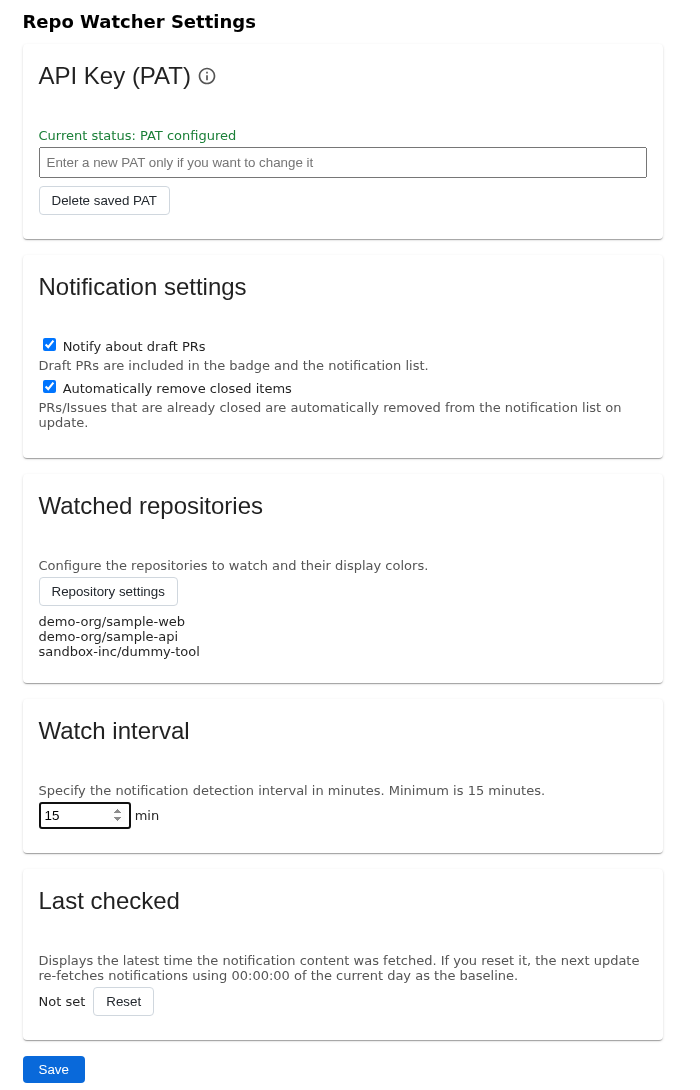
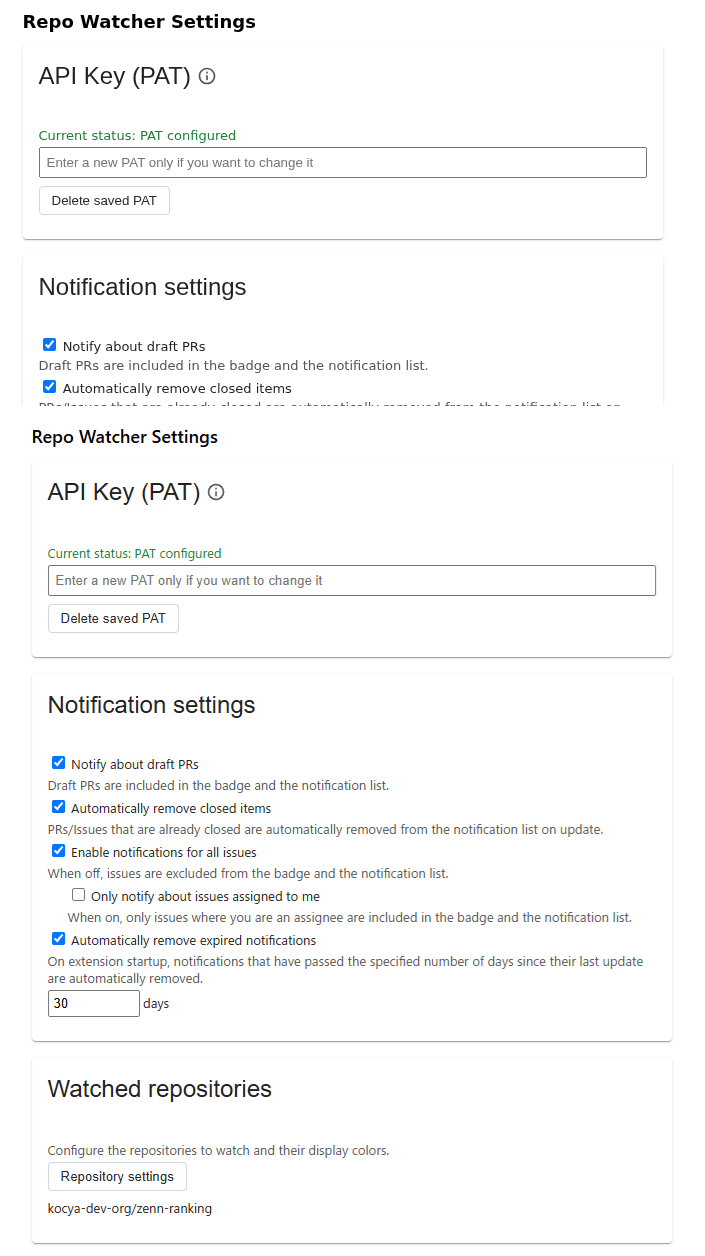
docs: マニュアルに通知設定の詳細を追加

diff --git a/docs/en/index.md b/docs/en/index.md
@@ -4,17 +4,17 @@
 
 ## What this extension does
 
-Repo Watcher is a Chrome extension that monitors Issues and Pull Requests in configured GitHub repositories.
+Repo Watcher is a Chrome extension that monitors Issues and Pull Requests in the repositories you specify.
 
-It primarily detects the following notifications:
+You can mainly check the following notifications:
 
 - New Issue / Pull Request
 - Mentions of you
-- New comments on Issues / Pull Requests where you are the assignee
+- New comments on issues or pull requests where you are the assignee
 
-Notifications are shown via the extension icon badge and in the popup window.
+Notifications appear in the extension icon badge and on the popup screen.
 
-![Image: Repo Watcher icon and unread badge on the Chrome toolbar](./assets/01_toolbar_icon_badge.png)
+![Image: Repo Watcher icon and unread count badge on the Chrome toolbar](./assets/01_toolbar_icon_badge.png)
 
 ## Prerequisites
 
@@ -22,87 +22,102 @@ Notifications are shown via the extension icon badge and in the popup window.
 - GitHub Personal Access Token (PAT)
 - The owner/repository names of the repositories you want to watch
 
-A fine-grained PAT is recommended. You can create a PAT in GitHub's `Settings` > `Developer Settings`. Required permissions:
+Create a PAT from GitHub's Settings > Developer settings. A fine-grained PAT is recommended.
+When you choose All repositories or Only select repositories, the required permissions are:
 
 - Metadata: Read-only
 - Issues: Read-only
 - Pull requests: Read-only
-- Pull requests: Read-only
 
 ![](./assets/generate_token.png)
+
+> [!note]
+>
+> - If you want to monitor Internal/Private repositories under an organization, set the resource owner to the organization.
+> - If you create a classic PAT, grant the repo permission.
 
 ## Initial setup
 
 After loading the extension, open the settings page.
 
-How to open:
+How to open it:
 
 - Click the extension icon
 - Open the popup menu in the top-right
-- Select "Open Settings"
+- Select Open Settings
 
-![Image: Select "Open Settings" from the popup menu](./assets/02_popup_menu_open_settings.png)
+![Image: Popup menu with Open Settings selected](./assets/02_popup_menu_open_settings.png)
 
-![Image: Options page (Open Settings)](./assets/03_options_page.png)
+![Image: Open Settings screen](./assets/03_options_page.png)
 
-### API Key (PAT)
+### API key (PAT)
 
-1.  Enter your GitHub PAT in the "API Key (PAT)" field.
-2.  Press "Save".
+1. Enter your GitHub PAT in the API Key (PAT) field.
+2. Click Save.
 
 The PAT is encrypted and stored in the extension's local storage.
 
 ### Notification settings
 
-The following two settings are available:
+The following settings are available:
 
-- "Notify about draft PRs": Draft PRs are included in the badge and the notification list when enabled.
-- "Automatically remove closed items": PRs/Issues that are already closed are automatically removed from the notification list on update when enabled.
+- Notify about draft PRs
+  When enabled, draft PRs are also included in the badge and the notification list.
+- Automatically remove closed items
+  When enabled, PRs / Issues that are already closed are automatically removed from the notification list during updates.
+- Enable notifications for all issues
+  When disabled, issue changes are not included in the badge or the notification list.
+  The Issue tab remains hidden.
+- Only notify about issues assigned to me
+  When enabled, only issues where you are the assignee are included in the badge and the notification list.
+  This option is available only when "Enable notifications for all issues" is turned on.
+- Automatically remove expired notifications
+  When the extension starts, notifications whose last update is older than the configured number of days are automatically removed.
 
 ### Watched repositories
 
-1.  Click "Repository settings".
-2.  Add repositories to watch using the owner/repository format.
-3.  Optionally set a display color for each repository.
-4.  Click "OK".
-5.  Finally, press "Save" on the settings page.
+1. Click Repository settings.
+2. Add repositories to watch in owner/repository format.
+3. Set a display color if needed.
+4. Click OK.
+5. Finally, click Save on the settings page.
 
-The chosen display color is shown as a left stripe on each notification in the popup.
+The display color is used as the left strip color for notifications in the popup.
 
-![Image: Repository settings dialog where you enter owner/repository and set display color](./assets/04_repository_settings_dialog.png)
+![Image: Repository settings dialog where you enter the owner/repository and display color](./assets/04_repository_settings_dialog.png)
 
 ### Watch interval
 
-Specify the notification detection interval in minutes. The minimum is 15 minutes.
+The watch interval is configured in minutes. The minimum is 15 minutes.
 
 ### Last checked
 
-The "Last checked" field shows the most recent time the notifications were fetched.
+The Last checked field shows the latest time the notification content was fetched.
 
-Press "Reset" to clear the stored time. The next update will re-fetch notifications using 00:00:00 of the current day as the baseline.
+Click Reset to clear the saved timestamp. The next update will re-fetch notifications using 00:00:00 of the current day as the baseline.
 
 ## Viewing notifications
 
-In the popup you can switch between Pull Request and Issue tabs.
+In the popup, you can switch between the Pull Request and Issue tabs.
 
-Each notification shows the following information:
+Each notification lets you check the following information:
 
-- Title: The PR/Issue title; selecting it opens the corresponding page on GitHub.
-- Notification kind label: Shows status such as a mention or update.
-- Repository color: The configured color is displayed as a stripe at the left of the notification.
-- Comment count: The number of comments; selecting it opens the latest comment on GitHub ("Open latest comment").
-- Read / Unread state: Mark items read to exclude them from the list on the next popup open.
+- Title: The PR / Issue title. Selecting it opens the relevant page on GitHub.
+- Notification kind label: Indicates the state, such as PR / Issue status or a mention.
+- Repository color: The configured repository color is shown as a left-side strip.
+- Comment count: The number of comments. Selecting it opens the latest relevant comment on GitHub.
+- Read / Unread state: Check the item and close the popup to exclude it from the list the next time you open it.
 
-Notification kind labels and their meanings:
+Meaning of notification labels:
 
-- New: Item created since the last check
-- Updated: Existing item with updates
+- New: Newly created since the last check
+- Updated: An existing item that was updated
 - Mention: A mention of you was detected
-- Thread: New comment on an unresolved review thread that previously mentioned you
+- Thread: A new comment was added to an unresolved review thread that previously mentioned you
 - Assignee: You are the assignee and a new comment was posted
-- Approved: PR has a review approval
-- Changes requested: PR has a changes requested review
 - Draft: Draft PR
+- Approved: The PR has an approval review
+- Changes requested: The PR has a changes requested review
 
 ![Image: Popup showing Pull Request and Issue tabs, labels, comment counts, and read/unread toggles](./assets/05_popup_tabs_labels_comments_read.png)
 
@@ -110,27 +125,27 @@ Notification kind labels and their meanings:
 
 ### Pause and resume periodic watching
 
-Press the pause button in the popup's top-right to stop periodic watching. Press again to resume.
+Press the pause button in the top-right of the popup to stop periodic watching. Press it again to resume.
 
-Manual refresh via the update button is still available while paused.
+You can still manually refresh while paused.
 
 ### Manual refresh
 
-Press the refresh button in the popup's top-right to run the watch cycle immediately.
+Press the refresh button in the top-right of the popup to run the watch cycle immediately.
 
 ### Toggle read/unread
 
-- Use the left button on each notification to toggle Read / Unread.
+- Use the left-side button on each notification to toggle Read / Unread.
 - Use the check button in the top-right to mark all items in the current view as read or unread.
 
 Read items are excluded from the unread count.
 
-Items marked read remain visible while the popup is open; reopening the popup will remove them from the list.
+Items marked read remain visible while the popup is open. Reopening the popup removes them from the list.
 
 ### Menu
 
-- Open "Repository" from the popup menu to filter the view by configured repositories.
-- Open "Options" to go to the settings page.
+- Open Repository from the popup menu to filter the view by configured repositories.
+- Open Options to open the settings page.
 - View version information.
 
 ![Image: Popup repository filter with multiple repositories selected](./assets/06_popup_repository_filter.png)
@@ -139,17 +154,17 @@ Items marked read remain visible while the popup is open; reopening the popup wi
 
 Check the following in order:
 
-1.  Is a PAT configured?
-2.  Does the PAT have the required permissions?
-3.  Are the watched repositories configured correctly?
-4.  Is periodic watching paused?
-5.  Is the watch interval set too long?
-6.  Does a manual refresh produce an error?
+1. Is a PAT configured?
+2. Does the PAT have the required permissions?
+3. Are the watched repositories configured correctly?
+4. Is periodic watching paused?
+5. Is the watch interval too long?
+6. Does a manual refresh show an error?
 
-Reset the "Last checked" time and run a manual refresh to re-check using 00:00:00 of the current day as the baseline.
+Reset the Last checked time and then run a manual refresh to re-check using 00:00:00 of the current day as the baseline.
 
 ## Notes
 
-- The notification list is managed around unread items; read notifications are not retained.
-- Whether draft PRs are shown depends on the "Notify about draft PRs" setting.
-- Remember to press "Save" after changing settings for them to take effect.
+- The notification list is managed primarily around unread items; read notifications are not retained.
+- Whether draft PRs are shown depends on the Include draft PRs setting.
+- Remember to click Save after changing settings for them to take effect.

diff --git a/docs/ja/index.md b/docs/ja/index.md
@@ -31,6 +31,11 @@ PAT は GitHubの`Settings` > `Developer Settings`より作成してください
 
 ![](./assets/generate_token.png)
 
+> [!note]
+>
+> - Organization以下のInternal/Privateリポジトリを監視する場合は、Resource ownerにOrganizationを設定してください。
+> - Classic な PAT を作成する場合は、`repo`権限を付与してください。
+
 ## 初期設定
 
 拡張機能を読み込んだら、まず設定画面を開きます。
@@ -54,12 +59,20 @@ PAT は拡張機能の local storage に暗号化して保存されます。
 
 ### 通知設定
 
-設定できる項目は次の 2 つです。
+以下の項目が設定できます。
 
 - ドラフトPRを通知対象に含める
   ON にすると、ドラフト PR もバッジと通知一覧に含まれます。
 - Closeされた項目を自動的に削除する  
   ON にすると、更新時にすでに Close 済みの PR / Issue を通知一覧から削除します。
+- 全てのissueの通知を有効にする
+  OFF にすると Issue の変化をバッジと通知一覧に含めません。
+  Issueタブは常に非表示になります。
+- 自分がassigneeに設定されたissueだけを通知する
+  ON にすると自分が assignee に設定されている Issue だけをバッジと通知一覧に含めます。
+  「全てのissueの通知を有効にする」がONの場合のみ設定できます。
+- 一定期間経過した通知を自動的に削除する
+  拡張機能の起動時に、最終更新から指定した日数を経過した通知を自動的に削除します。
 
 ### 監視対象リポジトリ
 
